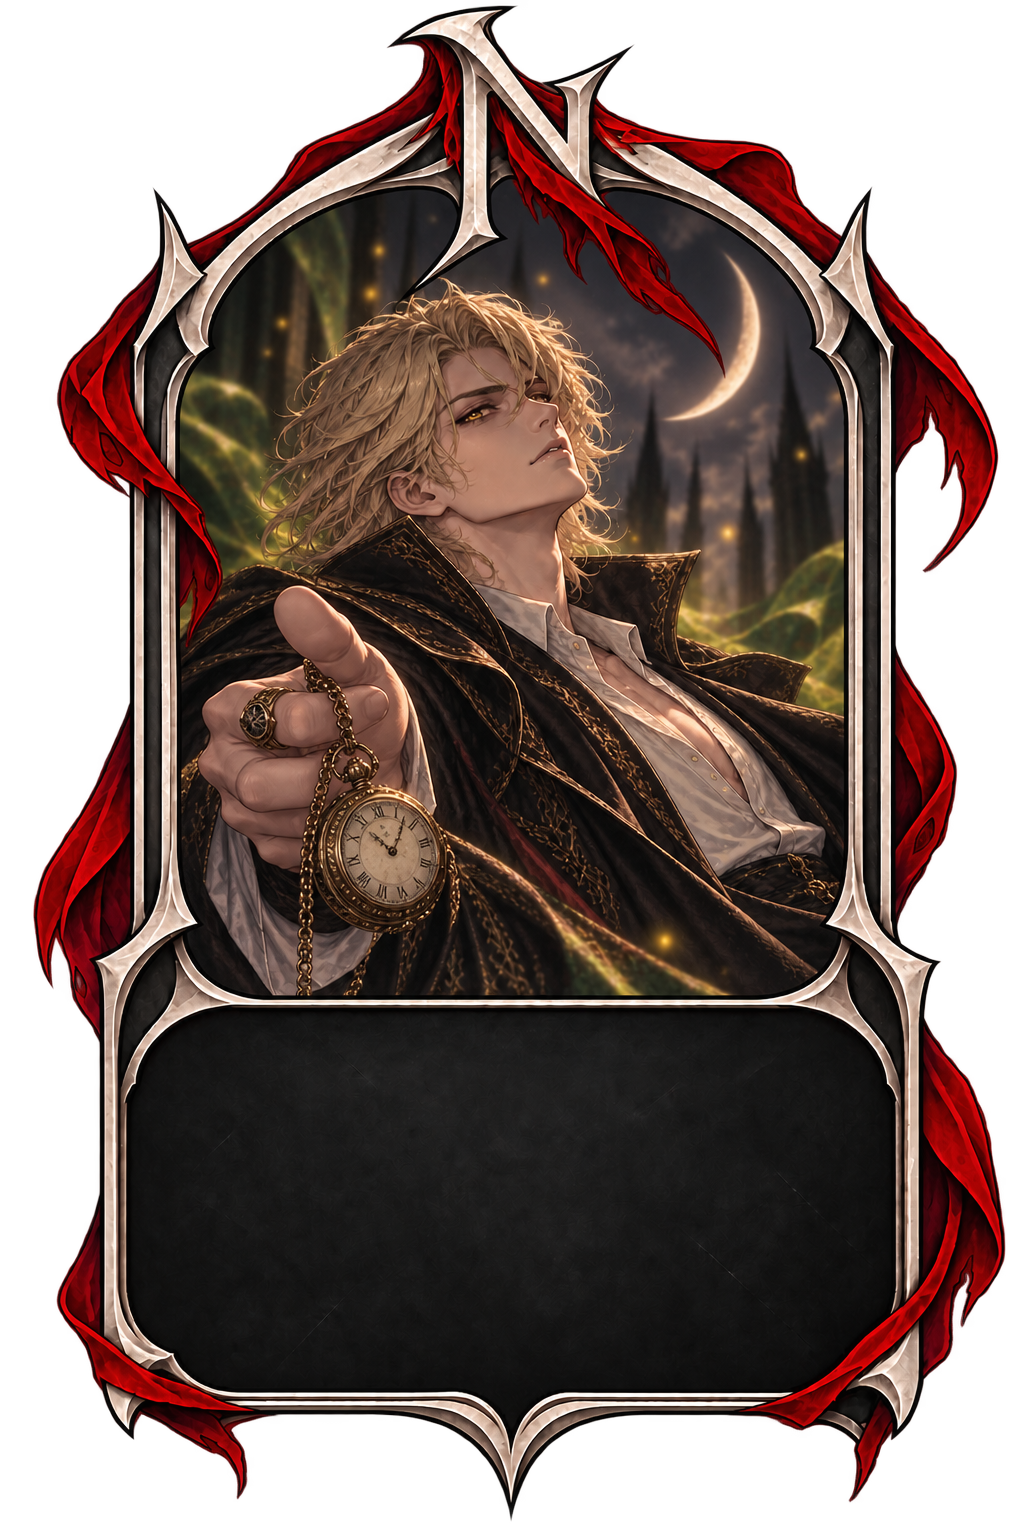
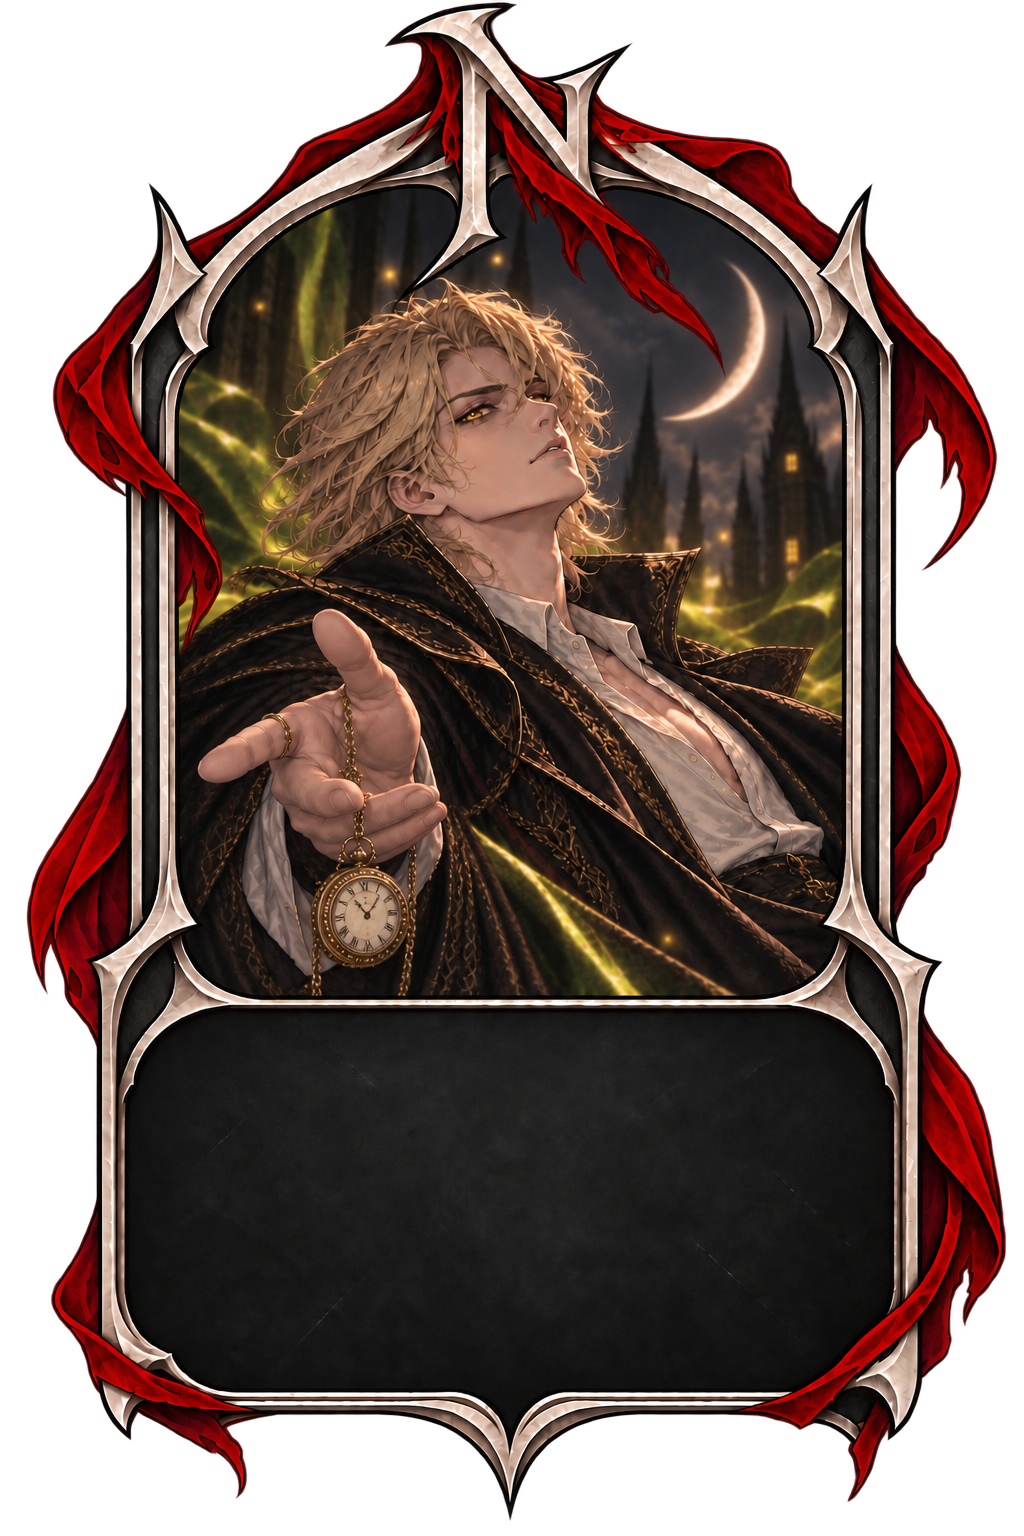
Description des modifications

diff --git a/CSS/Dalek.css b/CSS/Dalek.css
@@ -384,7 +384,12 @@ a.pbadge:hover{ border-color:currentColor; }
 .epithets p:last-child{ margin-bottom:0; }
 .epithets p.final{ color:var(--blood); font-style:normal; letter-spacing:0.04em; }
 .mtg-card.profile-card{ max-width:320px; position:sticky; top:6.5em; }
-.card-art-frame{ max-width:320px; position:sticky; top:6.5em; }
+.card-art-frame{ max-width:320px; position:sticky; top:6.5em; perspective:1600px; }
+.card-tilt{ transition:transform 0.5s cubic-bezier(.22,1,.36,1); transform-style:preserve-3d; cursor:pointer; }
+.card-flip{ position:relative; width:100%; transform-style:preserve-3d; transition:transform 0.9s cubic-bezier(.22,1,.36,1); }
+.card-flip.flipped{ transform:rotateY(180deg); }
+.card-face{ backface-visibility:hidden; -webkit-backface-visibility:hidden; }
+.card-face-back{ position:absolute; inset:0; transform:rotateY(180deg); }
 .card-art{ display:block; width:100%; height:auto; filter:drop-shadow(0 18px 40px rgba(0,0,0,0.55)); }
 @media (max-width:900px){
   .profile-grid{ grid-template-columns:1fr; }

diff --git a/CSS/Kaeliss.css b/CSS/Kaeliss.css
@@ -384,7 +384,12 @@ a.pbadge:hover{ border-color:currentColor; }
 .epithets p:last-child{ margin-bottom:0; }
 .epithets p.final{ color:var(--blood); font-style:normal; letter-spacing:0.04em; }
 .mtg-card.profile-card{ max-width:320px; position:sticky; top:6.5em; }
-.card-art-frame{ max-width:320px; position:sticky; top:6.5em; }
+.card-art-frame{ max-width:320px; position:sticky; top:6.5em; perspective:1600px; }
+.card-tilt{ transition:transform 0.5s cubic-bezier(.22,1,.36,1); transform-style:preserve-3d; cursor:pointer; }
+.card-flip{ position:relative; width:100%; transform-style:preserve-3d; transition:transform 0.9s cubic-bezier(.22,1,.36,1); }
+.card-flip.flipped{ transform:rotateY(180deg); }
+.card-face{ backface-visibility:hidden; -webkit-backface-visibility:hidden; }
+.card-face-back{ position:absolute; inset:0; transform:rotateY(180deg); }
 .card-art{ display:block; width:100%; height:auto; filter:drop-shadow(0 18px 40px rgba(0,0,0,0.55)); }
 @media (max-width:900px){
   .profile-grid{ grid-template-columns:1fr; }

diff --git a/CSS/Seigneur_des_Marais.css b/CSS/Seigneur_des_Marais.css
@@ -384,7 +384,12 @@ a.pbadge:hover{ border-color:currentColor; }
 .epithets p:last-child{ margin-bottom:0; }
 .epithets p.final{ color:var(--blood); font-style:normal; letter-spacing:0.04em; }
 .mtg-card.profile-card{ max-width:320px; position:sticky; top:6.5em; }
-.card-art-frame{ max-width:320px; position:sticky; top:6.5em; }
+.card-art-frame{ max-width:320px; position:sticky; top:6.5em; perspective:1600px; }
+.card-tilt{ transition:transform 0.5s cubic-bezier(.22,1,.36,1); transform-style:preserve-3d; cursor:pointer; }
+.card-flip{ position:relative; width:100%; transform-style:preserve-3d; transition:transform 0.9s cubic-bezier(.22,1,.36,1); }
+.card-flip.flipped{ transform:rotateY(180deg); }
+.card-face{ backface-visibility:hidden; -webkit-backface-visibility:hidden; }
+.card-face-back{ position:absolute; inset:0; transform:rotateY(180deg); }
 .card-art{ display:block; width:100%; height:auto; filter:drop-shadow(0 18px 40px rgba(0,0,0,0.55)); }
 @media (max-width:900px){
   .profile-grid{ grid-template-columns:1fr; }

diff --git a/app.js b/app.js
@@ -265,3 +265,29 @@
     }, 60);
   });
 })();
+
+// --- Cartes de personnage : inclinaison 3D au survol, retournement au clic ---
+(function(){
+  document.querySelectorAll('.card-art-frame').forEach(frame => {
+    const tilt = frame.querySelector('.card-tilt');
+    const flip = frame.querySelector('.card-flip');
+    if(!tilt || !flip) return;
+
+    frame.addEventListener('mousemove', (e) => {
+      const rect = frame.getBoundingClientRect();
+      const x = (e.clientX - rect.left) / rect.width;
+      const y = (e.clientY - rect.top) / rect.height;
+      const rx = (0.5 - y) * 16;
+      const ry = (x - 0.5) * 16;
+      tilt.style.transform = `rotateX(${rx}deg) rotateY(${ry}deg)`;
+    });
+
+    frame.addEventListener('mouseleave', () => {
+      tilt.style.transform = 'rotateX(0deg) rotateY(0deg)';
+    });
+
+    frame.addEventListener('click', () => {
+      flip.classList.toggle('flipped');
+    });
+  });
+})();

diff --git a/Personnages/Kaeliss.html b/Personnages/Kaeliss.html
@@ -40,7 +40,16 @@
 
     <div class="profile-grid">
       <div class="card-art-frame">
-        <img class="card-art" src="../img/Cartes/Ka%C3%A9liss-Carte.png" alt="Carte de Kaéliss, Déesse du Sang">
+        <div class="card-tilt">
+          <div class="card-flip">
+            <div class="card-face card-face-front">
+              <img class="card-art" src="../img/Cartes/Ka%C3%A9liss-Carte.png" alt="Carte de Kaéliss, Déesse du Sang">
+            </div>
+            <div class="card-face card-face-back">
+              <img class="card-art" src="../img/Cartes/Verso-Carte.png" alt="Dos de la carte">
+            </div>
+          </div>
+        </div>
       </div>
 
       <div>

diff --git a/Personnages/Dalek.html b/Personnages/Dalek.html
@@ -40,7 +40,16 @@
 
     <div class="profile-grid">
       <div class="card-art-frame">
-        <img class="card-art" src="../img/Cartes/Dalek-Carte.png" alt="Carte de Dalek, Seigneurs des Rêves">
+        <div class="card-tilt">
+          <div class="card-flip">
+            <div class="card-face card-face-front">
+              <img class="card-art" src="../img/Cartes/Dalek-Carte.png" alt="Carte de Dalek, Seigneurs des Rêves">
+            </div>
+            <div class="card-face card-face-back">
+              <img class="card-art" src="../img/Cartes/Verso-Carte.png" alt="Dos de la carte">
+            </div>
+          </div>
+        </div>
       </div>
 
       <div>
